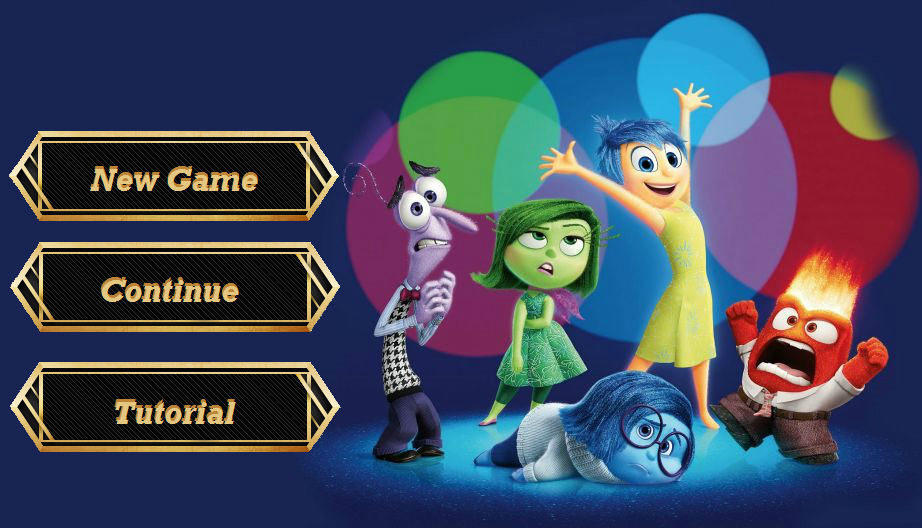
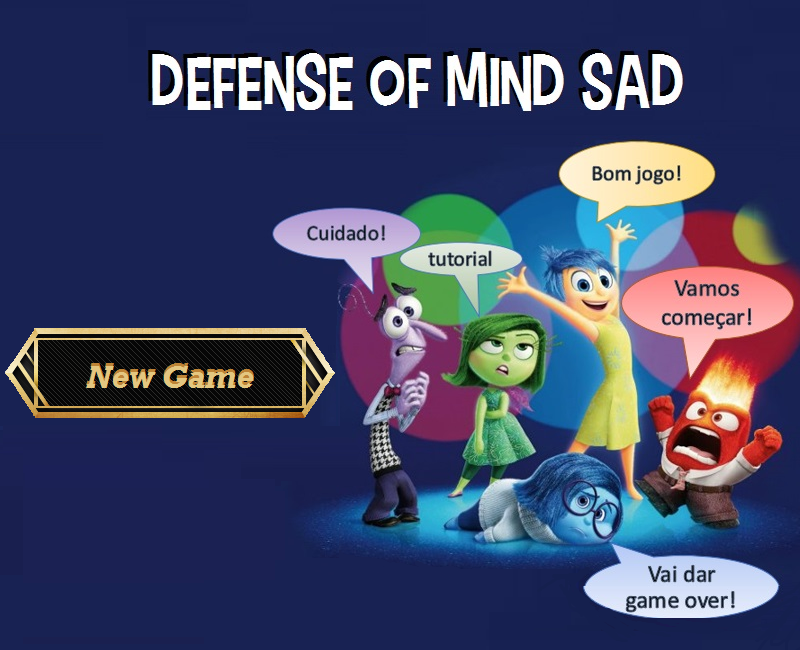
Alteracao dos arquivos de menu e gameover juntamente com suas imagens

diff --git a/testes/menu.py b/testes/menu.py
@@ -4,7 +4,7 @@ import sys
 pygame.init()
 
 def menu(estado):
-    screen = pygame.display.set_mode((900,500),0,32)
+    screen = pygame.display.set_mode((800,650),0,32)
     fundo = 'iniciar.png'
     background = pygame.image.load(fundo).convert()
     
@@ -16,22 +16,9 @@ def menu(estado):
             if evento.type == pygame.MOUSEBUTTONDOWN:
                 if pygame.mouse.get_pressed() == (1,0,0):
                     x,y = pygame.mouse.get_pos()
-                    if (x > 12 and x < 333) and (y > 132 and y < 220):
+                    print(pygame.mouse.get_pos())
+                    if (x > 4 and x < 333) and (y > 328 and y < 418):
                         return jogo(evento)
-                        estado = False
-                        
-            if evento.type == pygame.MOUSEBUTTONDOWN:
-                if pygame.mouse.get_pressed() == (1,0,0):
-                    x,y = pygame.mouse.get_pos()
-                    if (x > 12 and x < 288) and (y > 242 and y < 332):
-                        return novojogo(evento)
-                        estado = False
-                        
-            if evento.type == pygame.MOUSEBUTTONDOWN:
-                if pygame.mouse.get_pressed() == (1,0,0):
-                    x,y = pygame.mouse.get_pos()
-                    if (x > 12 and x < 338) and (y > 362 and y < 451):
-                        return tutorial(evento)
                         estado = False
         
         pygame.display.update()

diff --git a/testes/gameover.py b/testes/gameover.py
@@ -4,7 +4,7 @@ import sys
 pygame.init()
 
 def menu(estado):
-    screen = pygame.display.set_mode((600,360),0,32)
+    screen = pygame.display.set_mode((800,650),0,32)
     fundo = 'gameover.png'
     background = pygame.image.load(fundo).convert()
     
@@ -17,7 +17,7 @@ def menu(estado):
                 if pygame.mouse.get_pressed() == (1,0,0):
                     x,y = pygame.mouse.get_pos()
                     print(pygame.mouse.get_pos())
-                    if (x > 560 and x < 580) and (y > 10 and y < 35):
+                    if (x > 769 and x < 784) and (y > 23 and y < 49):
                         return mmenu(evento)
                         estado = False
         pygame.display.update()
